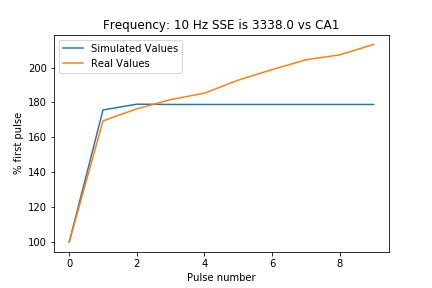
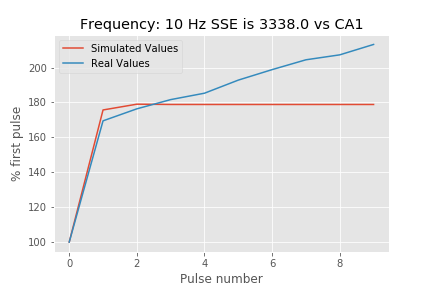
Added minor stylistic improvments

diff --git a/frequency_facilitaion_model.py b/frequency_facilitaion_model.py
@@ -6,6 +6,7 @@ Created on Thu Feb 25 10:29:34 2021
 """
 import numpy as np
 import matplotlib.pyplot as plt
+plt.style.use('ggplot')
 
 class AutoVivification(dict):
     """Implementation of perl's autovivification feature."""
@@ -131,13 +132,12 @@ if __name__ =='__main__':
             t=t+step
             state_values,measure_pts = update(state_values,param_dict,t_spike,measure_pts)
             result = observe(state_values,result)
+            
         #Glu values are most comparable to the frequency facilitation values also normalize to 100
         values_to_compare = np.array(result['glu'][freqs])/result['glu'][freqs][1]*100
         
         real_data = real_data_for_error_calc[freqs]
         SSE,calc_measure = sse(real_data,values_to_compare,measure_pts)
-        
-        
         plt.figure()
         plt.xlabel('Pulse number')
         plt.ylabel('% first pulse')
